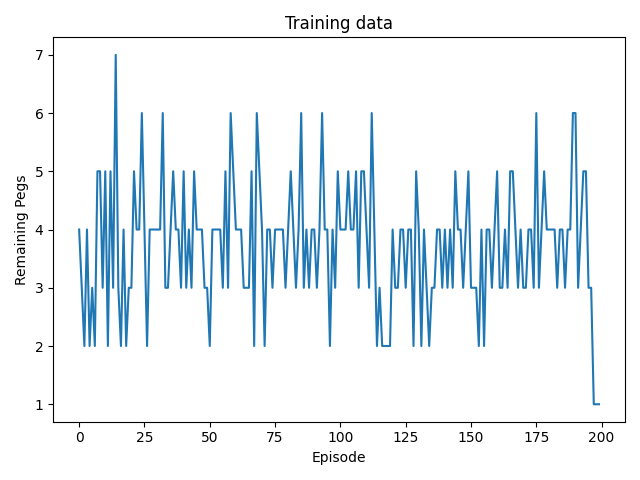
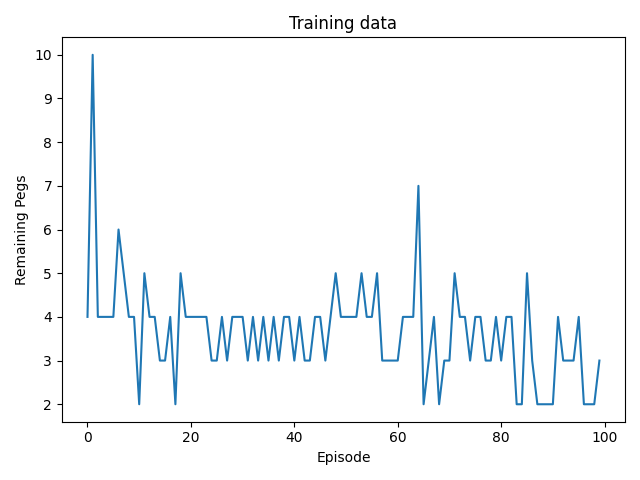
More code clean up

diff --git a/src/critic/nn_critic.py b/src/critic/nn_critic.py
@@ -1,6 +1,5 @@
 from typing import Tuple
 
-import numpy as np
 import tensorflow as tf
 from keras import backend as K  # noqa
 from keras.layers import Dense, Input
@@ -56,7 +55,7 @@ class NNCritic(Critic):
         model.add(Input(shape=(input_dim,)))
 
         for dimension in hidden_dims:
-            model.add(Dense(dimension, activation='relu'))
+            model.add(Dense(dimension, activation='swish'))
 
         model.add(Dense(units=1, activation='linear'))
 
@@ -69,7 +68,7 @@ class NNCritic(Critic):
 
     def _get_value(self, state: Tuple[int]) -> float:
         """Value function V(s)"""
-        return np.squeeze(self.__values(np.array([state])))
+        return float(self.__values(tf.convert_to_tensor([state])))  # type: ignore
 
     def update(self, reward: float, successor_state: Tuple[int], current_state: Tuple[int]) -> None:
         """Updates eligibilities, then the value function."""
@@ -85,7 +84,7 @@ class NNCritic(Critic):
 
         gradients = tape.gradient(loss, self.__values.trainable_weights)
         gradients = self.__modify_gradients(gradients, td_error)
-        self.__values.optimizer.apply_gradients(zip(gradients, self.__values.trainable_weights))
+        self.__values.optimizer.apply_gradients(zip(gradients, self.__values.trainable_weights))  # type: ignore
 
     def __modify_gradients(self, gradients, td_error):
         for gradient, eligibility in zip(gradients, self.__eligibilities):

diff --git a/src/parameters.py b/src/parameters.py
@@ -1,15 +1,15 @@
 from data_classes import Shape
 
 # General
-EPISODES = 200
+EPISODES = 100
 VISUALIZE_GAMES = True
-FRAME_DELAY = 0.1
+FRAME_DELAY = 0.15
 
 # Simulated World
 BOARD_TYPE = Shape.Triangle
 SIZE = 5
 HOLES = set([
-    (2, 2),
+    (2, 1),
 ])
 
 # Actor
@@ -18,12 +18,12 @@ ACTOR_DISCOUNT_FACTOR = 0.85
 ACTOR_TRACE_DECAY = 0.85
 
 ACTOR_EPSILON = 0.9
-ACTOR_EPSILON_DECAY = 0.995
+ACTOR_EPSILON_DECAY = 0.997
 
 # Critic
 CRITIC_LEARNING_RATE = 0.001
 CRITIC_DISCOUNT_FACTOR = 0.85
 CRITIC_TRACE_DECAY = 0.85
 
-USE_TABLE_CRITIC = True
-CRITIC_NN_DIMENSIONS = (15, 20, 1)
+USE_TABLE_CRITIC = False
+CRITIC_NN_DIMENSIONS = (15, 20, 30, 5, 1)
